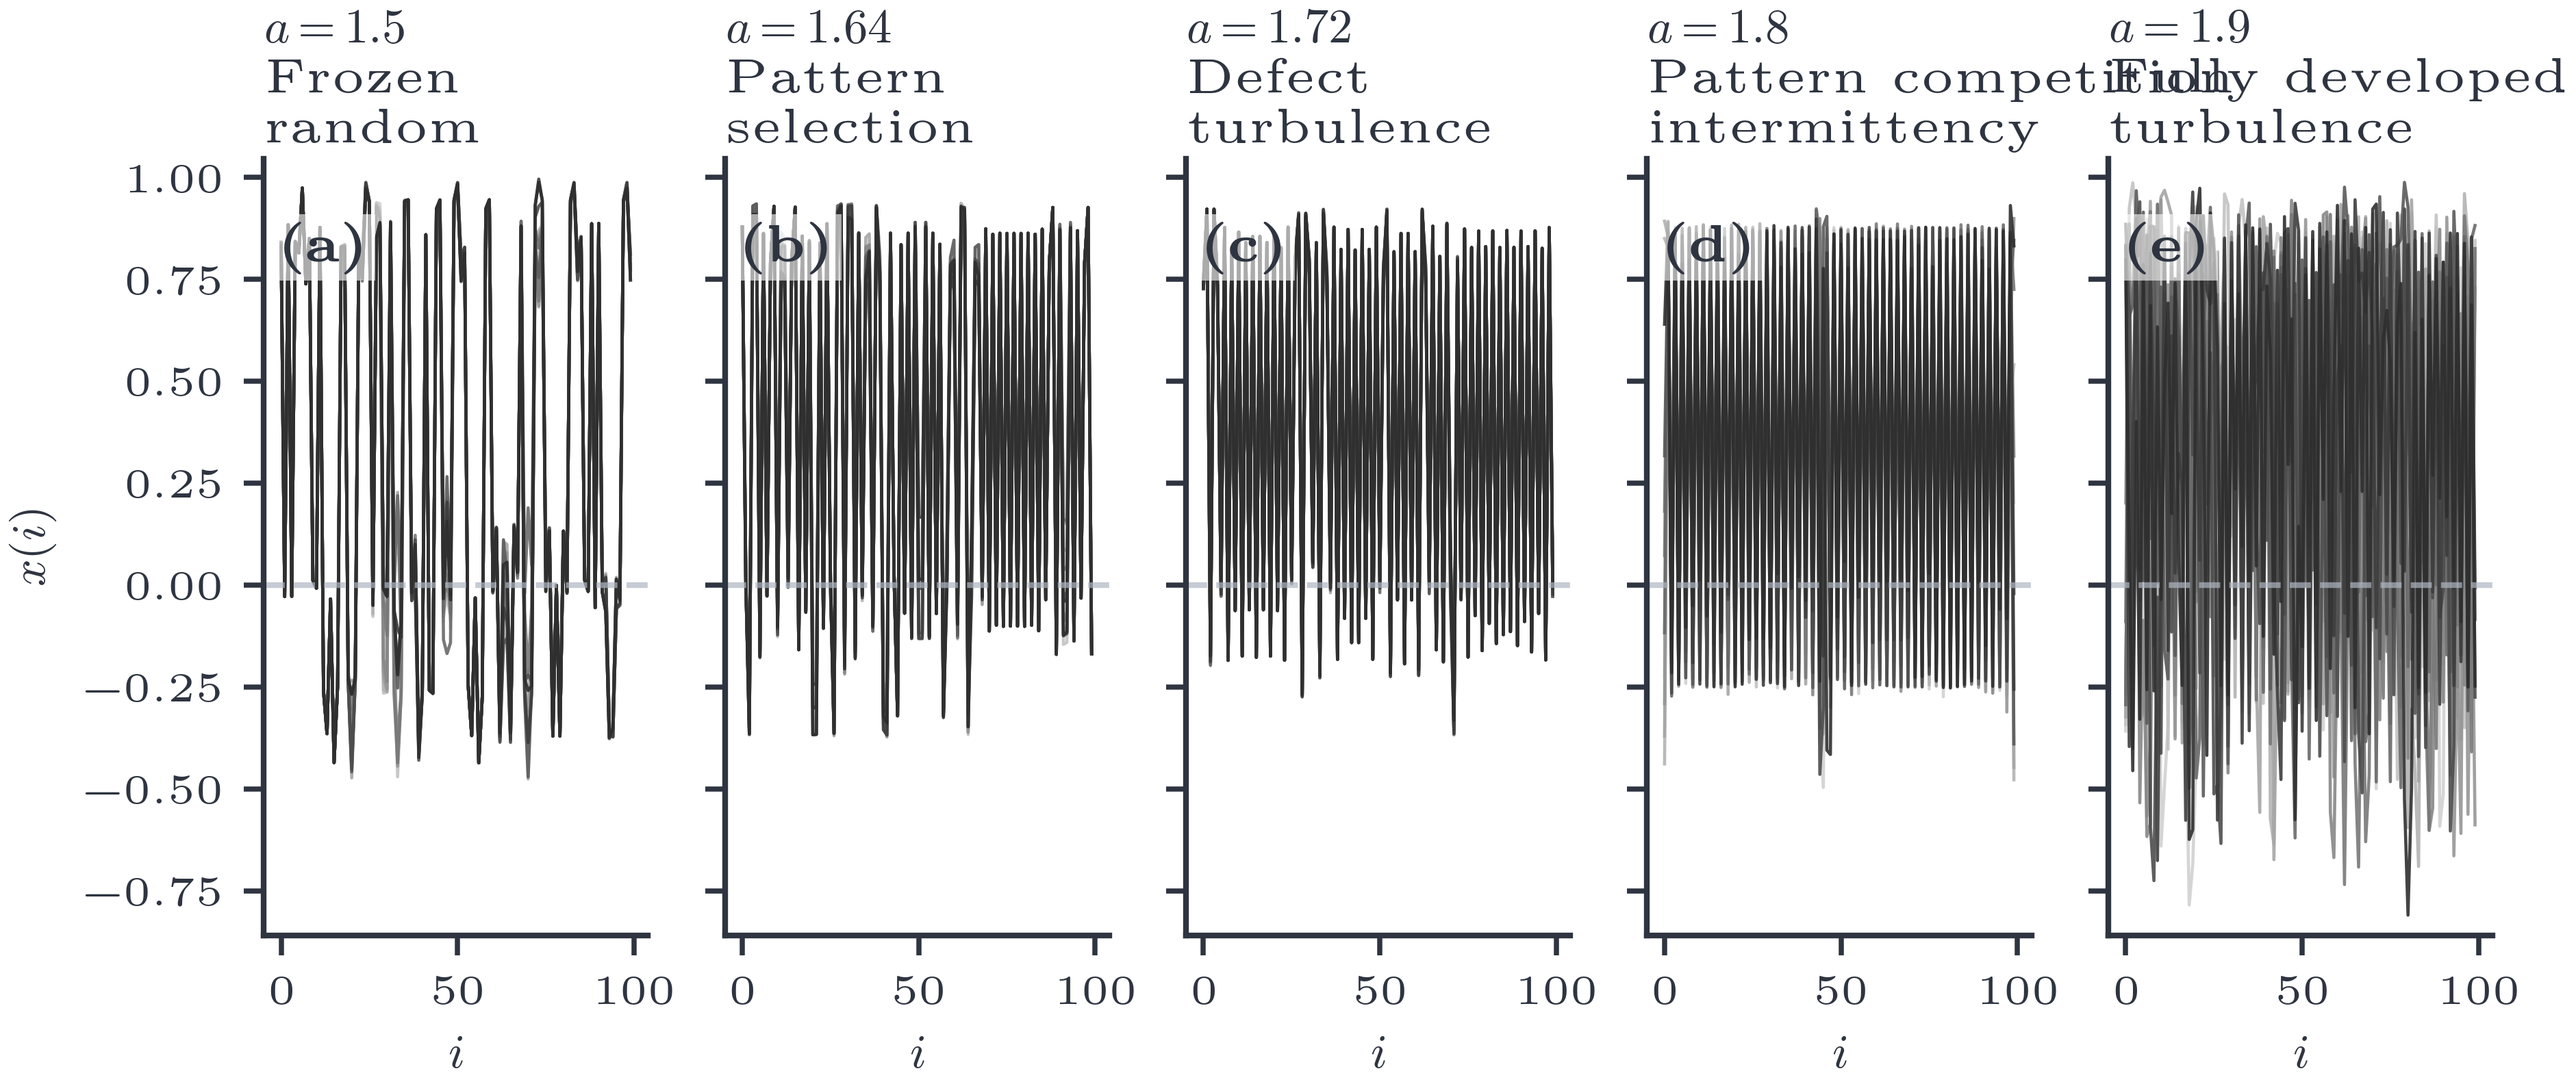
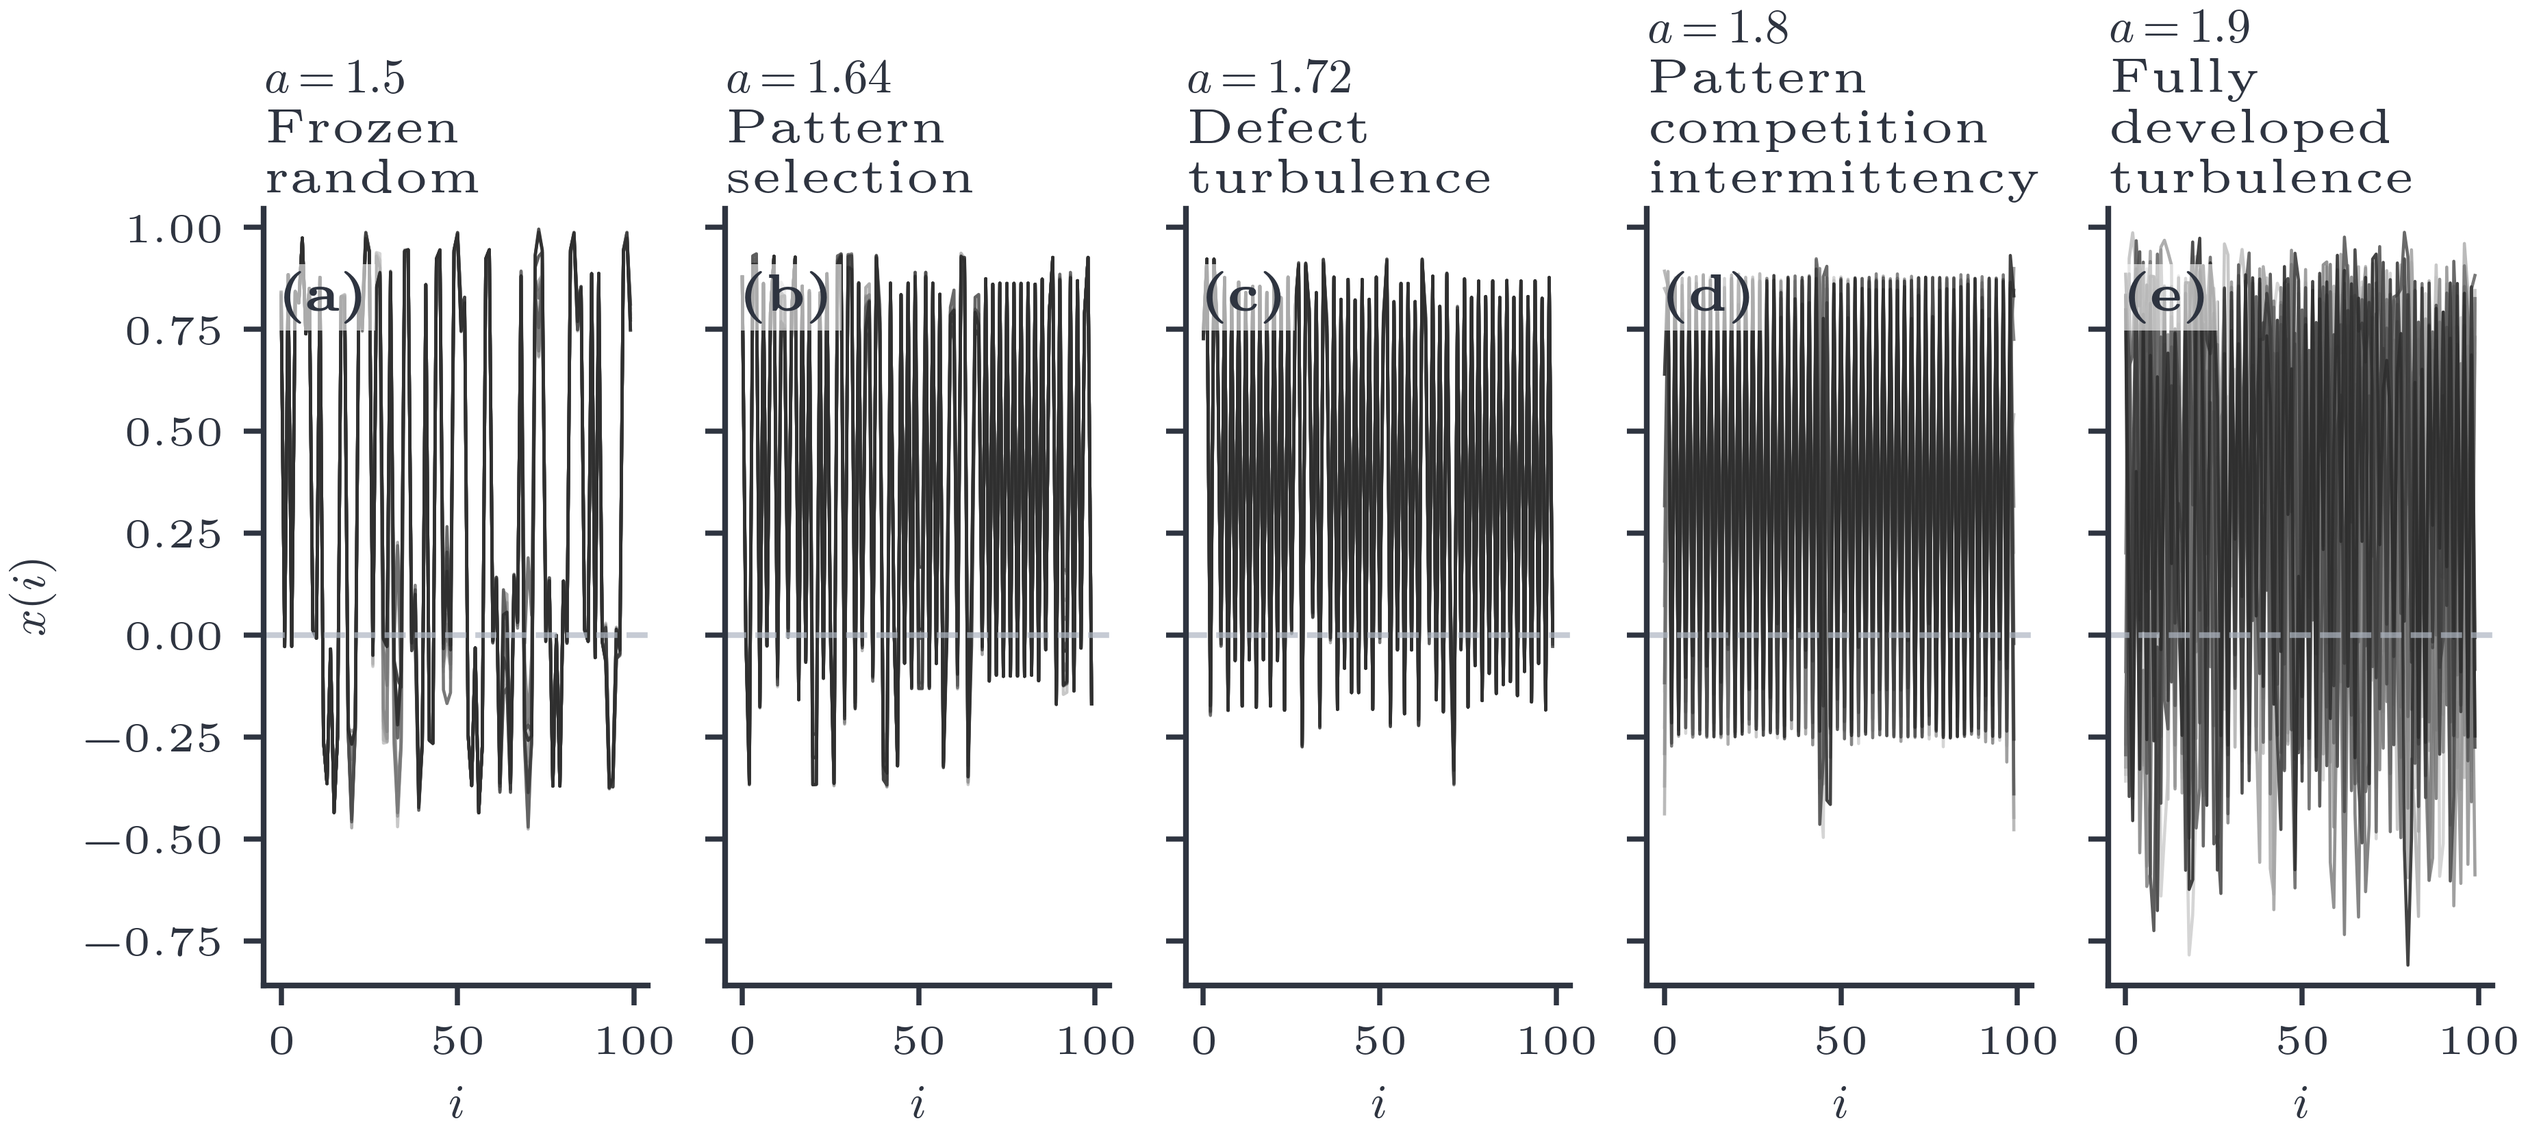
impl: Figs 18 & 26 overflowing panel-title fix (bead .6)
- Fig 18 (coupled_delayed.py): panel (a) label 'near three-frequency regime'
  -> 'near-$T^3$ regime'; plot_projections sources labels from PROJECTION_CASES
  (code constant) instead of the frozen npz so the edit renders without recompute.
- Fig 26 (pattern_dynamics.py): wrap npz-stored panel labels at plot time via
  textwrap(width=12, break_long_words=False) so long labels stack cleanly without
  splitting words (e.g. 'intermittency' stays whole).
- Re-rendered sec06_three_torus + sec09_pattern PNGs from cache (npz byte-identical).
- Rebuilt main.pdf.

Presentation-only; determinism freeze intact. Both figures visually verified.

Changed region(s): [[0.0, 0.0, 0.9967, 0.928], [0.4361, 0.7115, 0.4672, 0.7424]]

diff --git a/src/dynachaos/cml/pattern_dynamics.py b/src/dynachaos/cml/pattern_dynamics.py
@@ -15,6 +15,8 @@ Phase diagram: a in [1.5, 2.0], eps in [0, 0.4]
 OUTPUTS: figures/sec09_pattern/*.npz, *.png
 """
 
+import textwrap
+
 import numpy as np
 
 from dynachaos.cml.primitives import (
@@ -253,6 +255,11 @@ def plot_space_amplitude(data):
         for shade, snap in zip(greys, snapshots, strict=False):
             ax.plot(sites, snap, color=(shade, shade, shade), lw=0.55, alpha=0.9)
         label = str(data[label_key][0]) if label_key in data else ""
+        label = (
+            "\n".join(textwrap.wrap(label.replace("\n", " "), width=12, break_long_words=False))
+            if label
+            else ""
+        )
         tag = str(data[tag_key][0]) if tag_key in data else "?"
         ax.set_title(f"$a={a}$\n{label}", loc="left")
         panel_label(ax, f"({tag})")

diff --git a/src/dynachaos/maps/coupled_delayed.py b/src/dynachaos/maps/coupled_delayed.py
@@ -35,7 +35,7 @@ ANIM_GIF = FIG_DIR / "three_torus_animation.gif"
 
 PROJ_SCHEMA_VERSION = 2
 PROJECTION_CASES = (
-    (2.37, "near three-frequency regime", "line"),
+    (2.37, "near-$T^3$ regime", "line"),
     (2.43, "resonance web", "line"),
     (2.45, "locked invariant circle", "line"),
     (2.478, "weak chaos", "density"),
@@ -231,7 +231,7 @@ def plot_projections(data):
     setup()
 
     DB_values = data["DB_values"]
-    labels = data["labels"]
+    labels = np.array([case[1] for case in PROJECTION_CASES])
     render_modes = data["render_modes"]
 
     spec = figure_spec("grid")
